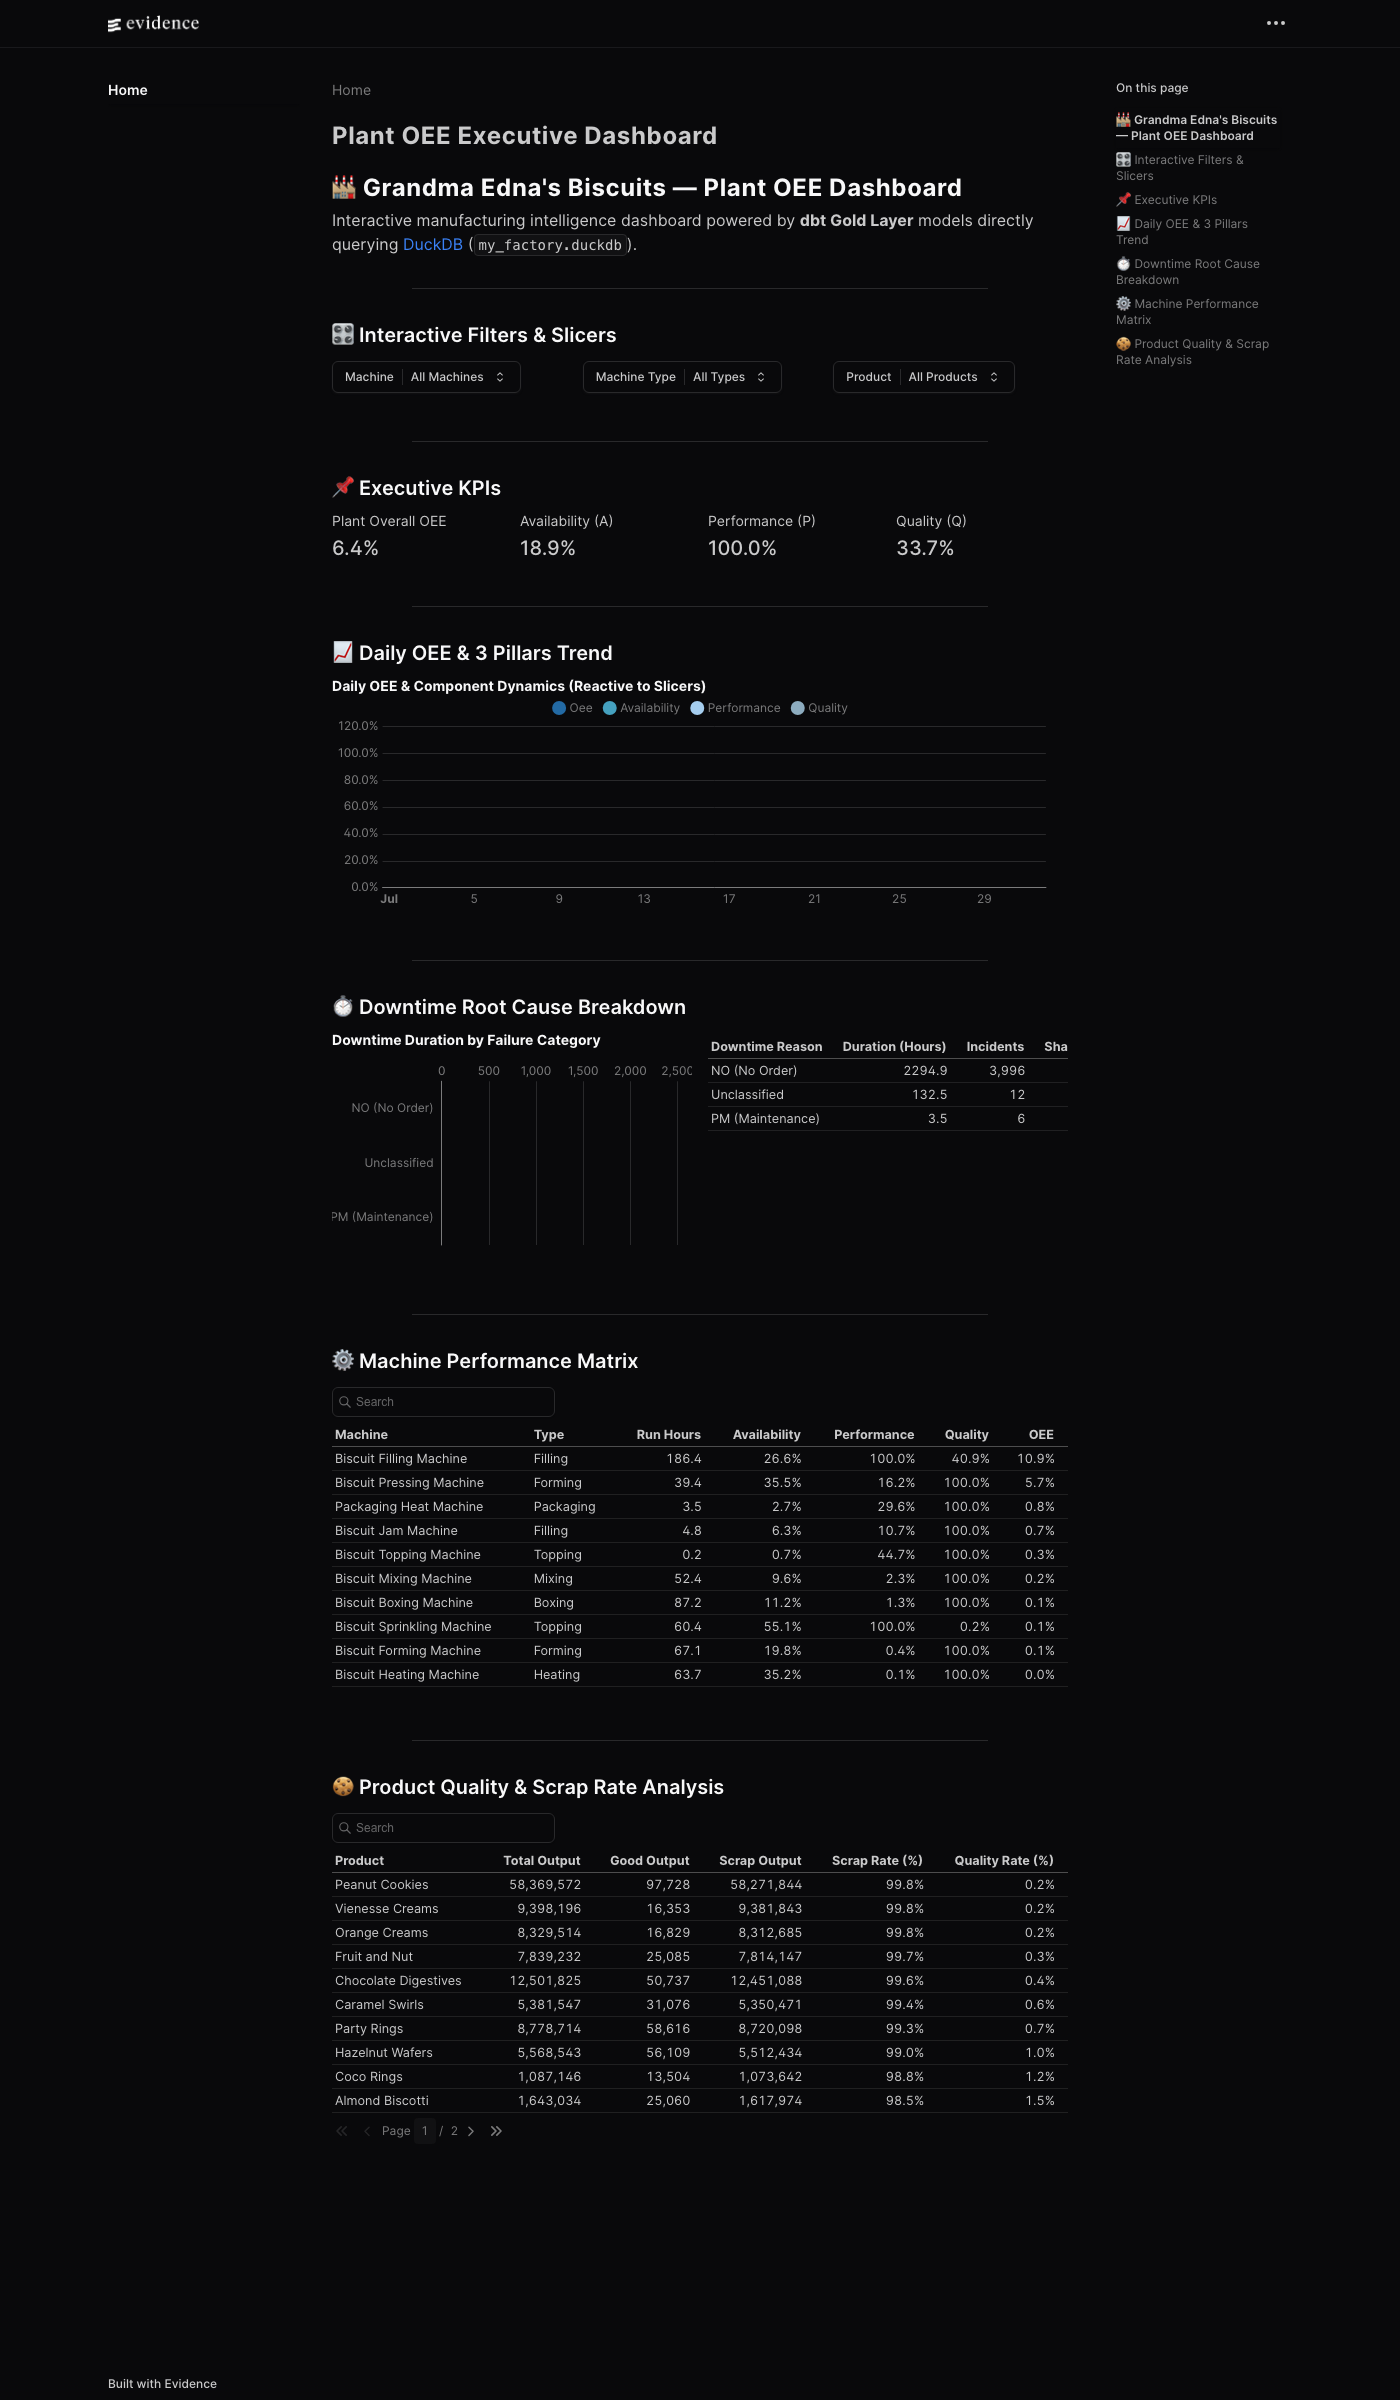
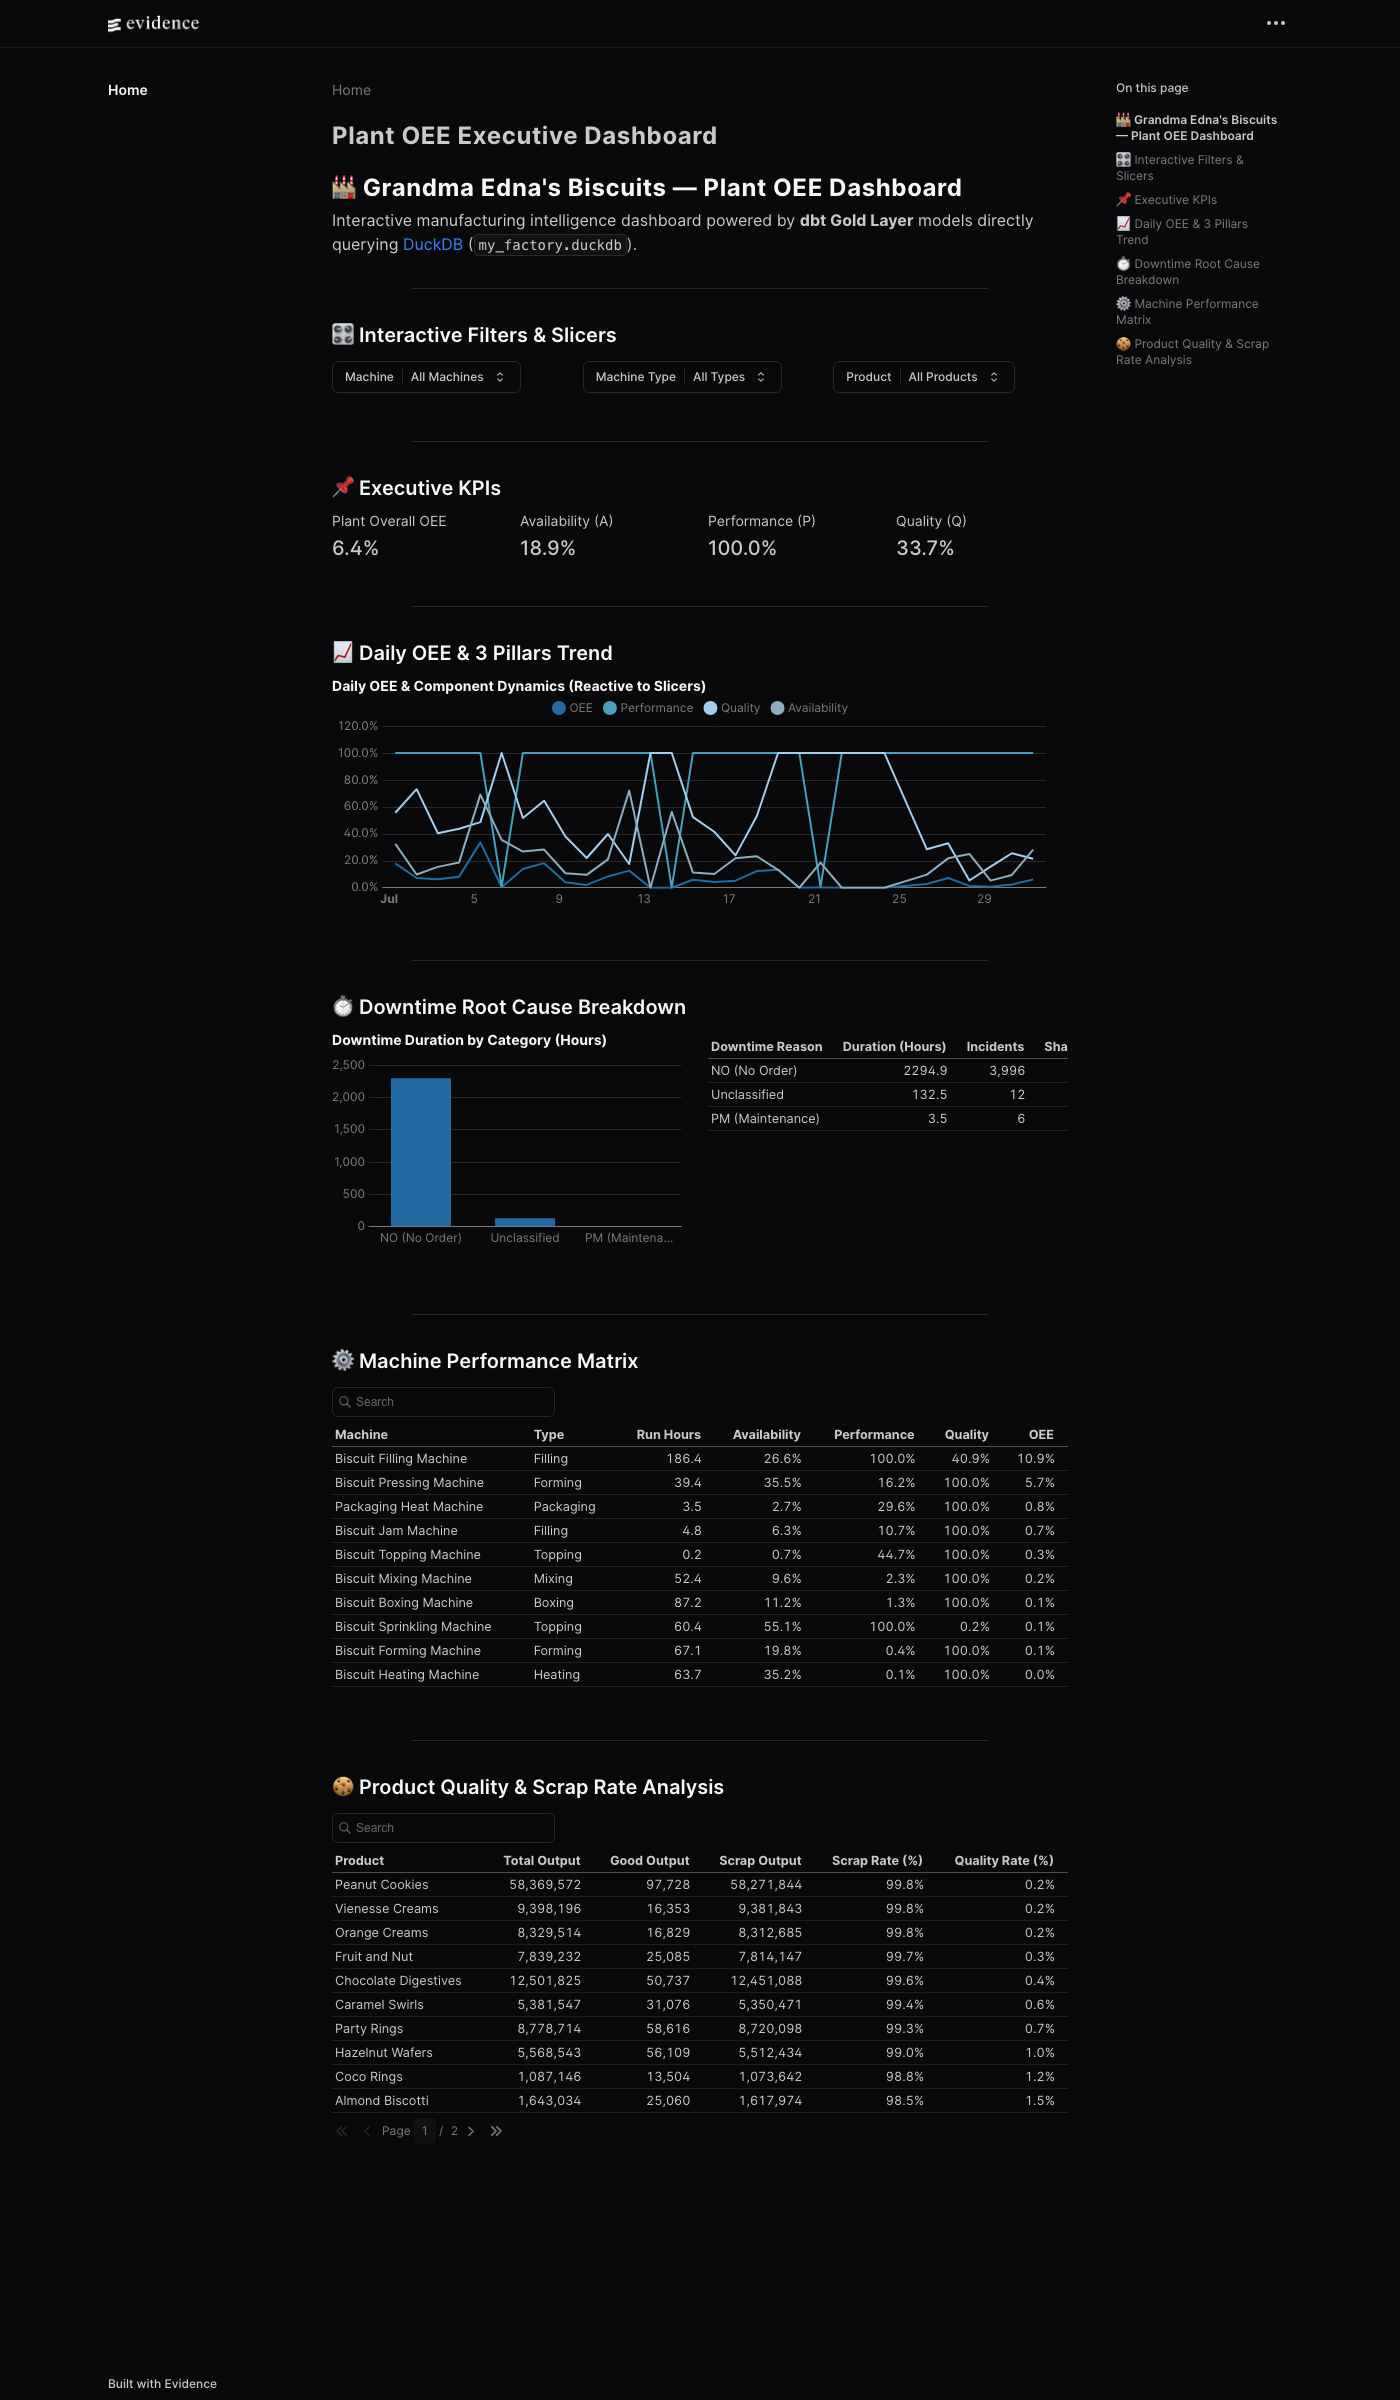
fix(charts): unpivot trend lines and render downtime bars properly

diff --git a/dashboard/pages/index.md b/dashboard/pages/index.md
@@ -101,18 +101,52 @@ where machine_name like '${inputs.selected_machine.value}'
 
 ## 📈 Daily OEE & 3 Pillars Trend
 
-```sql daily_oee
+```sql daily_trends_unpivoted
 select
     date_id,
-    coalesce(sum(operating_hours) / nullif(sum(planned_hours), 0), 0) as availability,
-    coalesce(least(1.0, sum(total_biscuits) / nullif(sum(ideal_biscuits), 0)), 0) as performance,
-    coalesce(sum(good_biscuits) / nullif(sum(total_biscuits), 0), 0) as quality,
+    'OEE' as metric,
     coalesce(
         (sum(operating_hours) / nullif(sum(planned_hours), 0)) *
         least(1.0, sum(total_biscuits) / nullif(sum(ideal_biscuits), 0)) *
         (sum(good_biscuits) / nullif(sum(total_biscuits), 0)),
         0
-    ) as oee
+    ) as rate
+from oee_factory.production_runs_detailed
+where machine_name like '${inputs.selected_machine.value}'
+  and machine_type like '${inputs.selected_type.value}'
+  and product_name like '${inputs.selected_product.value}'
+group by date_id
+
+union all
+
+select
+    date_id,
+    'Availability' as metric,
+    coalesce(sum(operating_hours) / nullif(sum(planned_hours), 0), 0) as rate
+from oee_factory.production_runs_detailed
+where machine_name like '${inputs.selected_machine.value}'
+  and machine_type like '${inputs.selected_type.value}'
+  and product_name like '${inputs.selected_product.value}'
+group by date_id
+
+union all
+
+select
+    date_id,
+    'Performance' as metric,
+    coalesce(least(1.0, sum(total_biscuits) / nullif(sum(ideal_biscuits), 0)), 0) as rate
+from oee_factory.production_runs_detailed
+where machine_name like '${inputs.selected_machine.value}'
+  and machine_type like '${inputs.selected_type.value}'
+  and product_name like '${inputs.selected_product.value}'
+group by date_id
+
+union all
+
+select
+    date_id,
+    'Quality' as metric,
+    coalesce(sum(good_biscuits) / nullif(sum(total_biscuits), 0), 0) as rate
 from oee_factory.production_runs_detailed
 where machine_name like '${inputs.selected_machine.value}'
   and machine_type like '${inputs.selected_type.value}'
@@ -122,11 +156,13 @@ order by date_id
 ```
 
 <LineChart 
-    data={daily_oee} 
+    data={daily_trends_unpivoted} 
     x=date_id 
-    y={["oee", "availability", "performance", "quality"]}
-    title="Daily OEE & Component Dynamics (Reactive to Slicers)"
+    y=rate 
+    series=metric 
+    title="Daily OEE & Component Dynamics (Reactive to Slicers)" 
     yFmt="0.0%"
+    legend=true
 />
 
 ---
@@ -153,8 +189,7 @@ order by downtime_hours desc
         data={downtime} 
         x=oee_category 
         y=downtime_hours 
-        swapXY=true 
-        title="Downtime Duration by Failure Category"
+        title="Downtime Duration by Category (Hours)"
     />
     <DataTable data={downtime}>
         <Column id=oee_category title="Downtime Reason" />
